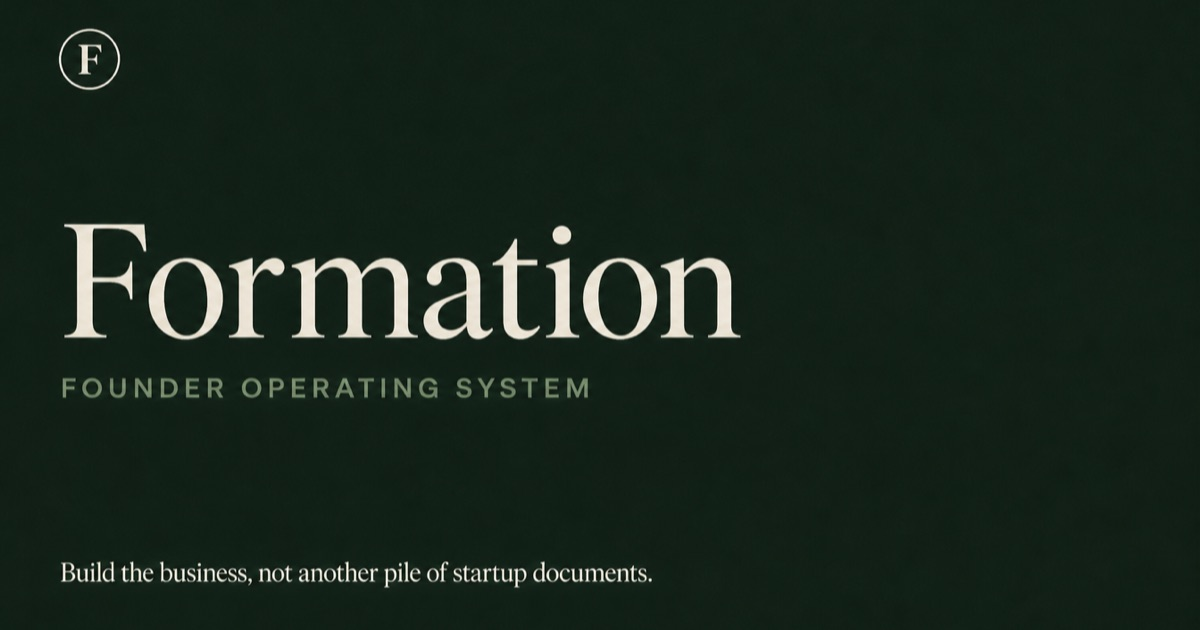
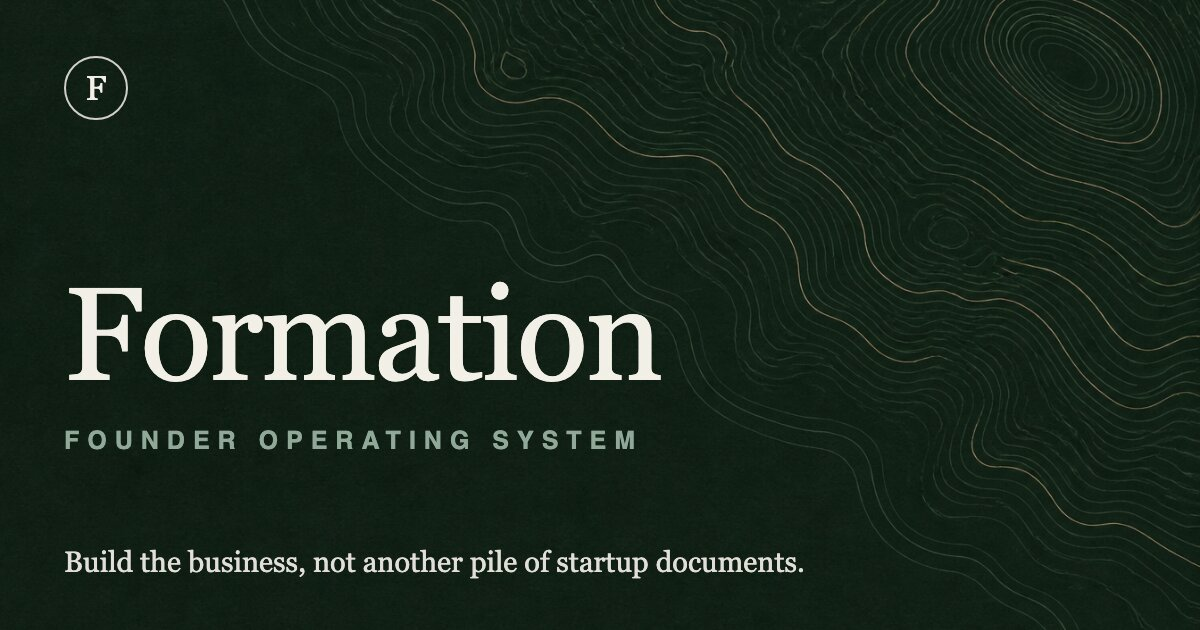
feat: design uplift — strata brand motif, instrument chrome, ledger numerals (v0.82.0) (#126)
A design-quality pass across the founder product, produced through a
reproduction-then-variation design study (superdesign), reference research
(Refero), and generated brand imagery (Higgsfield) — all held to the
checked-in design system's calm-editorial contract.

- Formation strata motif: fine engraved contour line-work as the brand
  element. Inline SVG (components/Motif.tsx) at low opacity in the Today
  readiness rail and Launch definition block; a generated engraved-plate
  texture backs the sign-in story panel and loading screen; og.jpg rebuilt
  on the same plate.
- Instrument chrome: sidebar company stage progression (seven segments
  mirroring the server workspace-stage vocabulary), thin left-rule active
  nav treatment, structured topbar context strip (stage / divider / goal).
- Ledger data layer: scores read as serif numeral over an annotated
  progress rule (36 / 100), counts render as two-digit tabular numerals via
  a shared formatCount primitive, recommendation rows gain a calm hover.
- Responsive fix: the readiness rail stays the motif's containing block
  when the mobile layout stacks (position: relative, not static).
- Dev tooling: vite.config.ts honors PORT / FORMATION_WEB_PORT so a dev
  stack can run beside a local production instance.

Checks pass (25 modules + TypeScript), 56 domain tests pass, production
build passes, audit 61/61 ok.

diff --git a/platform/web/src/styles/base.css b/platform/web/src/styles/base.css
@@ -183,6 +183,13 @@ input[type="range"] { padding: 0; accent-color: var(--forest); box-shadow: none;
   font-size: 13px;
 }
 .workspace-switcher__new:hover { color: #fff; }
+/* Where the company sits on the road to growth — a quiet instrument reading, not a chart. */
+.workspace-stage { display: grid; gap: 8px; padding: 16px 7px 2px; }
+.workspace-stage__label { display: flex; justify-content: space-between; align-items: baseline; color: #98aaa0; font-size: 10px; letter-spacing: .12em; text-transform: uppercase; }
+.workspace-stage__label strong { color: #d7e1da; font-weight: 750; }
+.workspace-stage__segments { display: grid; grid-template-columns: repeat(7, 1fr); gap: 4px; }
+.workspace-stage__segments span { height: 3px; border-radius: 999px; background: rgba(255,255,255,.13); }
+.workspace-stage__segments span.is-done { background: #7fb094; }
 .sidebar__nav { padding: 18px 12px; display: grid; gap: 3px; }
 .nav-item {
   appearance: none;
@@ -198,9 +205,12 @@ input[type="range"] { padding: 0; accent-color: var(--forest); box-shadow: none;
   text-align: left;
   font-size: 14px;
   text-decoration: none;
+  position: relative;
 }
 .nav-item:hover { color: #fff; background: rgba(255,255,255,.055); }
 .nav-item--active { color: #fff; background: rgba(255,255,255,.09); }
+/* The current destination reads from the thin rule, not from background alone. */
+.nav-item--active::before { content: ""; position: absolute; left: 0; top: 9px; bottom: 9px; width: 2px; border-radius: 999px; background: #7fb094; }
 .sidebar__footer { margin-top: auto; padding: 18px 16px 20px; border-top: 1px solid rgba(255,255,255,.09); }
 .sidebar__user { display: flex; align-items: center; gap: 10px; }
 .sidebar__user .avatar { width: 34px; height: 34px; border-radius: 50%; display: grid; place-items: center; background: #d4e1d8; color: var(--forest-dark); font-size: 12px; font-weight: 800; }
@@ -227,7 +237,9 @@ input[type="range"] { padding: 0; accent-color: var(--forest); box-shadow: none;
   padding: 0 32px;
 }
 .topbar__menu { display: none; }
-.topbar__context { display: flex; align-items: center; gap: 8px; color: var(--muted); font-size: 13px; min-width: 0; }
+.topbar__context { display: flex; align-items: center; gap: 11px; color: var(--muted); font-size: 13px; min-width: 0; }
+.topbar__context strong { color: var(--ink); font-size: 12px; font-weight: 750; letter-spacing: .08em; text-transform: uppercase; white-space: nowrap; }
+.topbar__divider { width: 1px; height: 17px; background: var(--line-dark); flex-shrink: 0; }
 .topbar__context span:last-child { overflow: hidden; text-overflow: ellipsis; white-space: nowrap; max-width: min(55vw, 700px); }
 .main-content { padding: 42px 42px 80px; max-width: 1520px; margin: 0 auto; }
 .page-stack { display: grid; gap: 28px; animation: page-rise 240ms ease both; }
@@ -291,7 +303,13 @@ input[type="range"] { padding: 0; accent-color: var(--forest); box-shadow: none;
 .progress-line__track::-webkit-progress-bar { background: #deddd6; border-radius: 999px; }
 .progress-line__track::-webkit-progress-value { background: var(--forest); border-radius: 999px; transition: inline-size 240ms ease; }
 .progress-line__track::-moz-progress-bar { background: var(--forest); border-radius: 999px; }
-.progress-line__value { font-size: 11px; color: var(--muted); width: 32px; text-align: right; }
+.progress-line__value { font-size: 11px; color: var(--muted); width: 32px; text-align: right; font-variant-numeric: tabular-nums; }
+/* A score reads as one instrument: numeral above, rule below, quiet tabular annotation. */
+.score-rule { display: grid; gap: 6px; }
+.score-rule__annotation { justify-self: end; color: var(--muted); font-size: 11px; font-weight: 650; font-variant-numeric: tabular-nums; }
+/* The strata motif: identity texture only. Parents that carry it isolate their stacking
+   context so the engraving sits above the surface but beneath every word. */
+.motif { position: absolute; pointer-events: none; z-index: -1; color: var(--forest); opacity: .12; }
 
 .empty-state { padding: 34px 0; max-width: 520px; }
 .empty-state h3 { margin-bottom: 8px; font-size: 19px; }
@@ -315,7 +333,7 @@ input[type="range"] { padding: 0; accent-color: var(--forest); box-shadow: none;
 .modal__head p { margin: 0; color: var(--muted); }
 .modal .icon-button:hover { background: var(--paper-deep); }
 
-.loading-screen { min-height: 100vh; display: grid; place-content: center; justify-items: center; gap: 14px; background: var(--forest-dark); color: #fff; }
+.loading-screen { min-height: 100vh; display: grid; place-content: center; justify-items: center; gap: 14px; background: var(--forest-dark) url("/strata.jpg") right top / cover no-repeat; color: #fff; }
 .loading-screen__mark { width: 52px; height: 52px; border: 1px solid rgba(255,255,255,.55); border-radius: 50%; display: grid; place-items: center; font: 29px Georgia, serif; }
 .loading-screen p { color: #d5dfd9; margin: 0; }
 .spinner { width: 16px; height: 16px; border: 2px solid currentColor; border-right-color: transparent; border-radius: 50%; animation: spin .8s linear infinite; display: inline-block; }

diff --git a/platform/web/src/styles/workspace.css b/platform/web/src/styles/workspace.css
@@ -1,5 +1,7 @@
 .signin-page { min-height: 100vh; display: grid; grid-template-columns: minmax(0, 1.2fr) minmax(420px, .8fr); }
-.signin-story { background: var(--forest-dark); color: #fff; padding: 44px clamp(35px, 6vw, 90px); display: flex; flex-direction: column; }
+/* The engraved strata panel: brand texture lives in the busy top-right corner; the
+   promise copy sits over the calm left two-thirds of the plate. */
+.signin-story { background: var(--forest-dark) url("/strata.jpg") right top / cover no-repeat; color: #fff; padding: 44px clamp(35px, 6vw, 90px); display: flex; flex-direction: column; }
 .signin-story__brand { font: 24px Georgia, serif; display: flex; align-items: center; gap: 12px; }
 .signin-story__brand span { width: 34px; height: 34px; border: 1px solid rgba(255,255,255,.55); border-radius: 50%; display: grid; place-items: center; }
 .signin-story__copy { max-width: 800px; margin: auto 0; }
@@ -17,22 +19,24 @@
 .today-grid { display: grid; grid-template-columns: minmax(0, 1fr) 300px; gap: 40px; align-items: start; }
 .priority-column { min-width: 0; }
 .recommendation-list { list-style: none; padding: 0; margin: 0; }
-.recommendation-row { display: grid; grid-template-columns: 42px minmax(0,1fr) auto; gap: 18px; padding: 25px 0; border-bottom: 1px solid var(--line); align-items: start; }
-.recommendation-row__number { color: var(--muted); font: 15px Georgia, serif; }
+.recommendation-row { display: grid; grid-template-columns: 42px minmax(0,1fr) auto; gap: 18px; padding: 25px 0; border-bottom: 1px solid var(--line); align-items: start; transition: background 140ms ease; }
+.recommendation-row:hover { background: rgba(255,255,255,.4); }
+.recommendation-row__number { color: var(--muted); font: 15px Georgia, serif; font-variant-numeric: tabular-nums; }
 .recommendation-row__meta { display: flex; gap: 12px; color: var(--muted); font-size: 10px; text-transform: uppercase; letter-spacing: .08em; font-weight: 700; }
 .recommendation-row h2 { margin: 7px 0 8px; font-size: 27px; }
 .recommendation-row p { margin-bottom: 8px; line-height: 1.5; }
 .recommendation-row__rationale { color: var(--muted); font-size: 13px; }
 .recommendation-row__action { border: 0; background: transparent; color: var(--forest); padding: 6px; display: flex; align-items: center; gap: 7px; cursor: pointer; font-size: 13px; font-weight: 700; }
-.readiness-rail { position: sticky; top: 88px; border-left: 1px solid var(--line-dark); padding-left: 26px; }
-.readiness-score { display: flex; align-items: baseline; gap: 7px; margin-bottom: 12px; }
-.readiness-score strong { font: 72px/1 Georgia, serif; font-weight: 400; }
+.readiness-rail { position: sticky; top: 88px; border-left: 1px solid var(--line-dark); padding-left: 26px; isolation: isolate; overflow: hidden; }
+.readiness-rail .motif { top: -46px; right: -72px; width: 230px; height: 230px; }
+.readiness-score { display: flex; align-items: baseline; gap: 7px; margin-bottom: 10px; }
+.readiness-score strong { font: 72px/1 Georgia, serif; font-weight: 400; font-variant-numeric: tabular-nums; }
 .readiness-score span { color: var(--muted); }
 .readiness-rail__note { font-size: 12px; color: var(--muted); line-height: 1.5; margin: 14px 0 22px; }
 .readiness-facts { margin: 0 0 20px; }
 .readiness-facts div { display: flex; justify-content: space-between; padding: 9px 0; border-top: 1px solid var(--line); font-size: 13px; }
 .readiness-facts dt { color: var(--muted); }
-.readiness-facts dd { margin: 0; font-weight: 700; }
+.readiness-facts dd { margin: 0; font-weight: 700; font-variant-numeric: tabular-nums; }
 .contradiction-banner { background: var(--rust-soft); border: 1px solid #d8b8aa; padding: 20px; display: grid; grid-template-columns: auto minmax(0,1fr) auto; align-items: start; gap: 15px; border-radius: var(--radius); }
 .contradiction-banner h2 { margin: 0 0 6px; font-size: 24px; }
 .contradiction-banner p:last-child { margin: 0; }

diff --git a/platform/web/src/styles/artifacts.css b/platform/web/src/styles/artifacts.css
@@ -47,14 +47,14 @@
 .lineage-items span { border-left: 2px solid var(--forest); padding: 4px 8px; background: rgba(255,255,255,.55); font-size: 11px; }
 
 .launch-scoreboard { display: grid; grid-template-columns: minmax(250px,.7fr) minmax(320px,1fr) minmax(250px,.8fr); gap: 36px; padding: 30px 0; border-bottom: 1px solid var(--line-dark); }
-.launch-scoreboard__score > strong { font: 96px/1 Georgia, serif; font-weight: 400; display: block; margin-bottom: 13px; }
+.launch-scoreboard__score > strong { font: 96px/1 Georgia, serif; font-weight: 400; display: block; margin-bottom: 13px; font-variant-numeric: tabular-nums; }
 .launch-scoreboard__target { border-left: 1px solid var(--line); padding-left: 30px; }
 .launch-scoreboard__target strong { display: block; font: 31px Georgia, serif; margin: 14px 0; }
 .launch-scoreboard__target p:last-child { font-size: 13px; line-height: 1.5; }
 .launch-scoreboard__facts { margin: 0; }
 .launch-scoreboard__facts div { display: flex; justify-content: space-between; padding: 11px 0; border-top: 1px solid var(--line); }
 .launch-scoreboard__facts dt { color: var(--muted); font-size: 12px; }
-.launch-scoreboard__facts dd { margin: 0; font-weight: 750; }
+.launch-scoreboard__facts dd { margin: 0; font-weight: 750; font-variant-numeric: tabular-nums; }
 .readiness-category-list { display: grid; }
 .readiness-category { display: grid; grid-template-columns: 44px minmax(0,1fr); gap: 16px; padding: 20px 0; border-top: 1px solid var(--line); }
 .readiness-category__index { color: var(--muted); font: 14px Georgia, serif; }
@@ -76,7 +76,8 @@
 .blocker-ledger li { display: grid; grid-template-columns: 45px minmax(0,1fr); gap: 13px; padding: 14px 0; border-top: 1px solid var(--line); }
 .blocker-ledger span { color: var(--red); font: 14px Georgia, serif; }
 .blocker-ledger p { margin: 0; }
-.launch-definition { background: var(--forest-dark); color: #fff; padding: clamp(28px,5vw,55px); border-radius: var(--radius-lg); display: flex; align-items: flex-end; justify-content: space-between; gap: 30px; }
+.launch-definition { background: var(--forest-dark); color: #fff; padding: clamp(28px,5vw,55px); border-radius: var(--radius-lg); display: flex; align-items: flex-end; justify-content: space-between; gap: 30px; position: relative; isolation: isolate; overflow: hidden; }
+.launch-definition .motif { color: #e7eee9; opacity: .1; top: -110px; right: -70px; width: 380px; height: 380px; }
 .launch-definition .eyebrow { color: #94a99c; }
 .launch-definition h2 { font-size: clamp(27px,3.6vw,46px); max-width: 940px; margin: 0; line-height: 1.08; }
 .launch-definition .button--secondary { color: #fff; border-color: rgba(255,255,255,.4); }

diff --git a/platform/web/src/pages/LaunchPage.tsx b/platform/web/src/pages/LaunchPage.tsx
@@ -1,6 +1,7 @@
 import { useEffect, useState } from "react";
 import { api } from "../api";
-import { Button, EmptyState, PageHeader, ProgressLine, Section, StatusText, TechnicalDisclosure, formatDate, timeAgo } from "../components/Primitives";
+import { Button, EmptyState, PageHeader, ProgressLine, Section, StatusText, TechnicalDisclosure, formatCount, formatDate, timeAgo } from "../components/Primitives";
+import { Motif } from "../components/Motif";
 import { runMutation, useWorkspace } from "../context";
 import { navigate } from "../router";
 import type { FounderExecution, Task } from "../types";
@@ -33,7 +34,10 @@ export function LaunchPage() {
         <div className="launch-scoreboard__score">
           <p className="eyebrow">Readiness score</p>
           <strong>{readiness.score}</strong>
-          <ProgressLine value={readiness.score} label="Readiness score" hideValue />
+          <div className="score-rule">
+            <ProgressLine value={readiness.score} label="Readiness score" hideValue />
+            <span className="score-rule__annotation">{readiness.score} / 100</span>
+          </div>
         </div>
         <div className="launch-scoreboard__target">
           <p className="eyebrow">Target launch</p>
@@ -42,9 +46,9 @@ export function LaunchPage() {
         </div>
         <dl className="launch-scoreboard__facts">
           <div><dt>Base progress</dt><dd>{readiness.baseScore}%</dd></div>
-          <div><dt>Blocked areas</dt><dd>{readiness.blockedCount}</dd></div>
-          <div><dt>Open decisions</dt><dd>{readiness.openDecisionCount}</dd></div>
-          <div><dt>Critical tasks</dt><dd>{readiness.criticalTaskCount}</dd></div>
+          <div><dt>Blocked areas</dt><dd>{formatCount(readiness.blockedCount)}</dd></div>
+          <div><dt>Open decisions</dt><dd>{formatCount(readiness.openDecisionCount)}</dd></div>
+          <div><dt>Critical tasks</dt><dd>{formatCount(readiness.criticalTaskCount)}</dd></div>
         </dl>
       </section>
 
@@ -105,6 +109,7 @@ export function LaunchPage() {
       ) : null}
 
       <section className="launch-definition">
+        <Motif />
         <div>
           <p className="eyebrow">Launch definition</p>
           <h2>A launch is ready when the team can explain the customer, offer, evidence, economics, distribution, risks, and execution plan without contradicting itself.</h2>

diff --git a/platform/web/src/components/Shell.tsx b/platform/web/src/components/Shell.tsx
@@ -13,6 +13,9 @@ const primaryNavigation = [
   { label: "Launch", path: "/launch", icon: "launch" as const },
 ];
 
+// Mirrors the server's WORKSPACE_STAGES vocabulary (platform/server/validation.mjs).
+const companyStages = ["idea", "discovery", "validation", "build", "beta", "launch", "growth"];
+
 export function Shell({
   session,
   workspace,
@@ -59,6 +62,7 @@ export function Shell({
               </option>
             ))}
           </Select>
+          <StageProgress stage={workspace.stage} />
           <button className="workspace-switcher__new" onClick={() => go("/new")}>
             <Icon name="plus" width={15} height={15} /> New workspace
           </button>
@@ -111,8 +115,8 @@ export function Shell({
             <Icon name="menu" width={22} height={22} />
           </button>
           <div className="topbar__context">
-            <span>{humanize(workspace.stage)}</span>
-            <span aria-hidden="true">·</span>
+            <strong>{humanize(workspace.stage)}</strong>
+            <span className="topbar__divider" aria-hidden="true" />
             <span>{workspace.company.currentGoal}</span>
           </div>
           <Button variant="quiet" icon="plus" onClick={() => go("/decisions?new=1")}>
@@ -121,6 +125,28 @@ export function Shell({
         </header>
         <main className="main-content">{children}</main>
       </div>
+    </div>
+  );
+}
+
+/**
+ * Where the company sits on the road from idea to growth. The label carries the
+ * information; the segments are a glanceable echo of it.
+ */
+function StageProgress({ stage }: { stage: string }) {
+  const position = companyStages.indexOf(stage);
+  if (position === -1) return null;
+  return (
+    <div className="workspace-stage">
+      <span className="workspace-stage__label">
+        <span>Stage</span>
+        <strong>{humanize(stage)}</strong>
+      </span>
+      <span className="workspace-stage__segments" aria-hidden="true">
+        {companyStages.map((entry, index) => (
+          <span key={entry} className={index <= position ? "is-done" : ""} />
+        ))}
+      </span>
     </div>
   );
 }

diff --git a/platform/web/src/pages/TodayPage.tsx b/platform/web/src/pages/TodayPage.tsx
@@ -4,6 +4,7 @@ import { runMutation, useWorkspace } from "../context";
 import { navigate } from "../router";
 import type { Recommendation, Task } from "../types";
 import { Icon } from "../components/Icon";
+import { Motif } from "../components/Motif";
 import {
   Button,
   ContradictionStatements,
@@ -12,6 +13,7 @@ import {
   ProgressLine,
   Section,
   StatusText,
+  formatCount,
   formatDate,
   timeAgo,
 } from "../components/Primitives";
@@ -90,20 +92,23 @@ export function TodayPage() {
         </div>
 
         <aside className="readiness-rail">
+          <Motif />
           <p className="eyebrow">Launch readiness</p>
           <div className="readiness-score">
             <strong>{readiness.score}</strong>
-            <span>/ 100</span>
           </div>
-          <ProgressLine value={readiness.score} label="Launch readiness" hideValue />
+          <div className="score-rule">
+            <ProgressLine value={readiness.score} label="Launch readiness" hideValue />
+            <span className="score-rule__annotation">{readiness.score} / 100</span>
+          </div>
           <p className="readiness-rail__note">
             The score discounts blocked work, unresolved critical decisions, and unfinished critical tasks. No vanity math allowed.
           </p>
           <dl className="readiness-facts">
             <div><dt>Target</dt><dd>{formatDate(workspace.launchTarget)}</dd></div>
-            <div><dt>Open decisions</dt><dd>{readiness.openDecisionCount}</dd></div>
-            <div><dt>Critical tasks</dt><dd>{readiness.criticalTaskCount}</dd></div>
-            <div><dt>Blocked workstreams</dt><dd>{readiness.blockedCount}</dd></div>
+            <div><dt>Open decisions</dt><dd>{formatCount(readiness.openDecisionCount)}</dd></div>
+            <div><dt>Critical tasks</dt><dd>{formatCount(readiness.criticalTaskCount)}</dd></div>
+            <div><dt>Blocked workstreams</dt><dd>{formatCount(readiness.blockedCount)}</dd></div>
           </dl>
           <Button variant="secondary" onClick={() => navigate("/launch")}>Review launch path</Button>
         </aside>

diff --git a/platform/web/src/components/Motif.tsx b/platform/web/src/components/Motif.tsx
@@ -1,0 +1,28 @@
+/**
+ * The Formation strata motif: fine concentric contour lines, like an engraved survey map.
+ * Purely decorative print texture — always aria-hidden, positioned by the parent, and kept
+ * at low opacity so it never competes with content (design-system.md: color communicates
+ * state; the motif communicates identity only).
+ */
+export function Motif({ className = "" }: { className?: string }) {
+  return (
+    <svg
+      className={`motif ${className}`}
+      viewBox="0 0 400 400"
+      fill="none"
+      stroke="currentColor"
+      strokeWidth="1"
+      aria-hidden="true"
+      focusable="false"
+    >
+      <path d="M200 62c58-8 118 10 144 52 25 40 18 96-8 132-27 38-74 62-124 58-52-4-104-30-126-74-21-42-8-98 26-128 26-24 55-35 88-40Z" />
+      <path d="M201 88c47-6 95 10 116 44 20 32 14 76-7 105-22 30-60 49-100 46-42-3-83-25-100-60-17-34-7-78 20-102 21-19 45-29 71-33Z" />
+      <path d="M202 114c37-5 73 9 89 35 15 25 11 57-6 79-17 23-46 37-77 35-32-3-63-19-76-46-13-26-5-59 16-77 16-14 34-23 54-26Z" />
+      <path d="M203 140c26-3 51 7 62 25 11 17 8 39-4 54-12 16-32 26-54 24-23-2-44-13-53-32-9-18-4-41 11-53 11-10 24-16 38-18Z" />
+      <path d="M204 166c15-2 29 5 35 15 6 10 4 22-3 30-7 9-18 15-30 14-13-1-25-8-30-18-5-11-2-23 6-30 6-6 13-10 22-11Z" />
+      <path d="M14 330c40-18 74-46 96-82" opacity=".7" />
+      <path d="M-4 302c52-20 96-56 124-104" opacity=".7" />
+      <path d="M292 386c34-24 60-58 74-98" opacity=".7" />
+    </svg>
+  );
+}

diff --git a/platform/web/src/styles/responsive.css b/platform/web/src/styles/responsive.css
@@ -48,7 +48,8 @@
   .topbar__menu { display: grid; }
   .main-content { padding: 34px 24px 70px; }
   .today-grid { grid-template-columns: 1fr; }
-  .readiness-rail { position: static; border-left: 0; border-top: 1px solid var(--line-dark); padding: 22px 0 0; }
+  /* Relative, not static: the strata motif inside must keep anchoring to the rail. */
+  .readiness-rail { position: relative; top: 0; border-left: 0; border-top: 1px solid var(--line-dark); padding: 22px 0 0; }
   .two-column-layout { grid-template-columns: 1fr; gap: 25px; }
   .three-column-evidence { grid-template-columns: 1fr; }
   .evidence-column { border-right: 0; border-bottom: 1px solid var(--line); }

diff --git a/platform/web/src/components/Primitives.tsx b/platform/web/src/components/Primitives.tsx
@@ -317,6 +317,14 @@ export function humanize(value: string) {
   return words.charAt(0).toUpperCase() + words.slice(1);
 }
 
+/**
+ * Ledger-style count: two digits so columns of counts align ("02", "14"). Only for
+ * counts that live in fact tables, never for scores or percentages.
+ */
+export function formatCount(value: number) {
+  return String(Math.max(0, Math.trunc(value))).padStart(2, "0");
+}
+
 export function formatDate(value: string | null | undefined, fallback = "Not set") {
   if (!value) return fallback;
   const date = /^\d{4}-\d{2}-\d{2}$/.test(value) ? new Date(`${value}T12:00:00`) : new Date(value);

diff --git a/platform/vite.config.ts b/platform/vite.config.ts
@@ -11,11 +11,11 @@ export default defineConfig({
   },
   server: {
     host: "127.0.0.1",
-    port: 4311,
+    port: Number(process.env.FORMATION_WEB_PORT ?? 4311),
     strictPort: true,
     proxy: {
       "/api": {
-        target: "http://127.0.0.1:4310",
+        target: `http://127.0.0.1:${process.env.PORT ?? 4310}`,
         changeOrigin: false,
       },
     },
